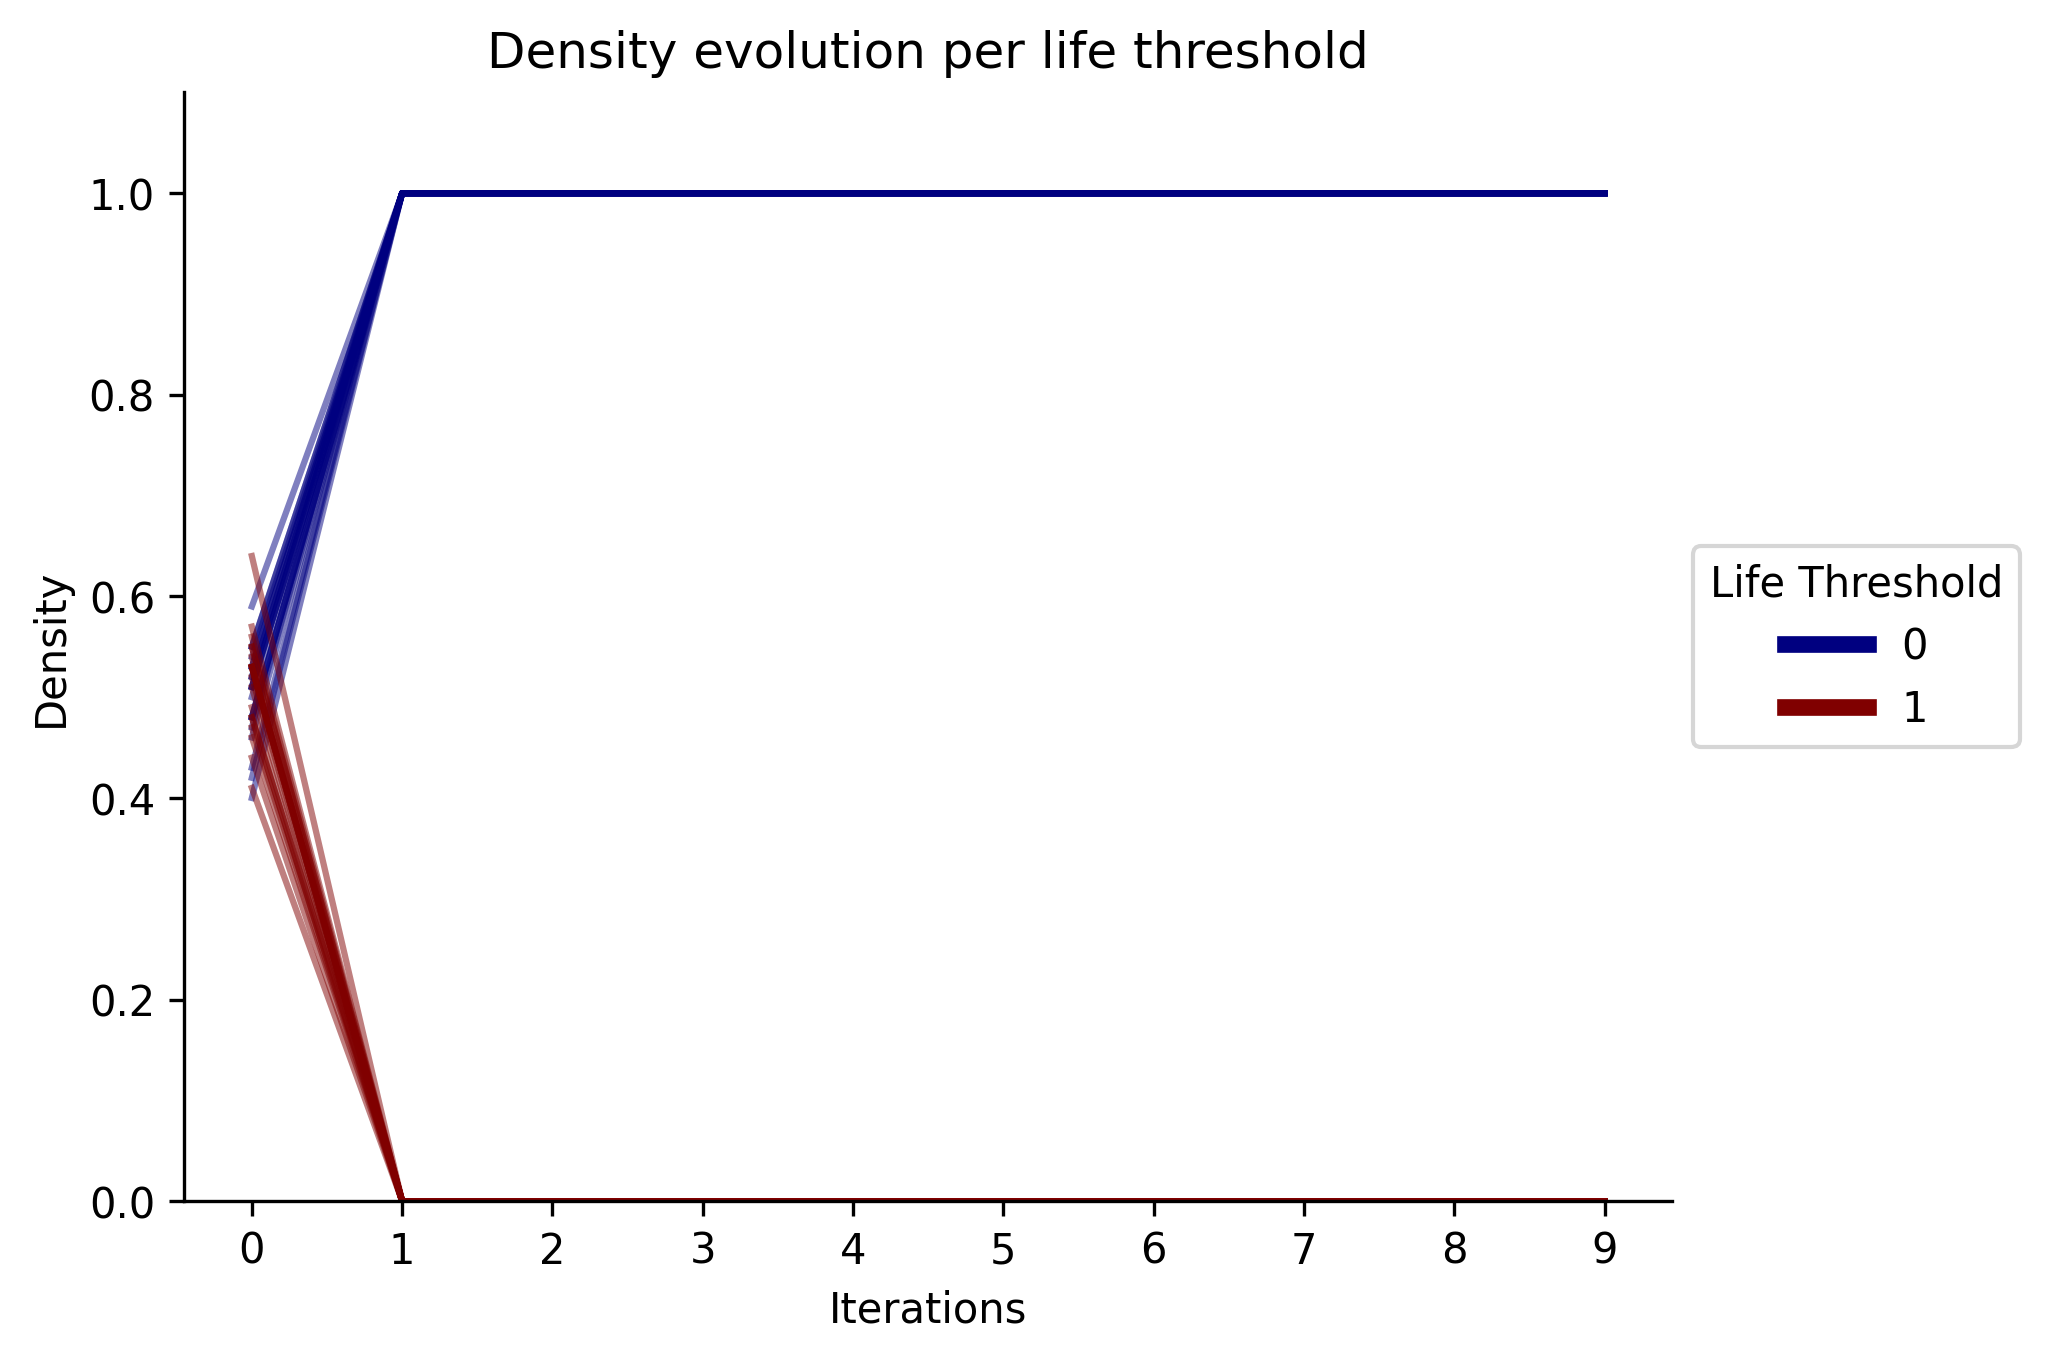
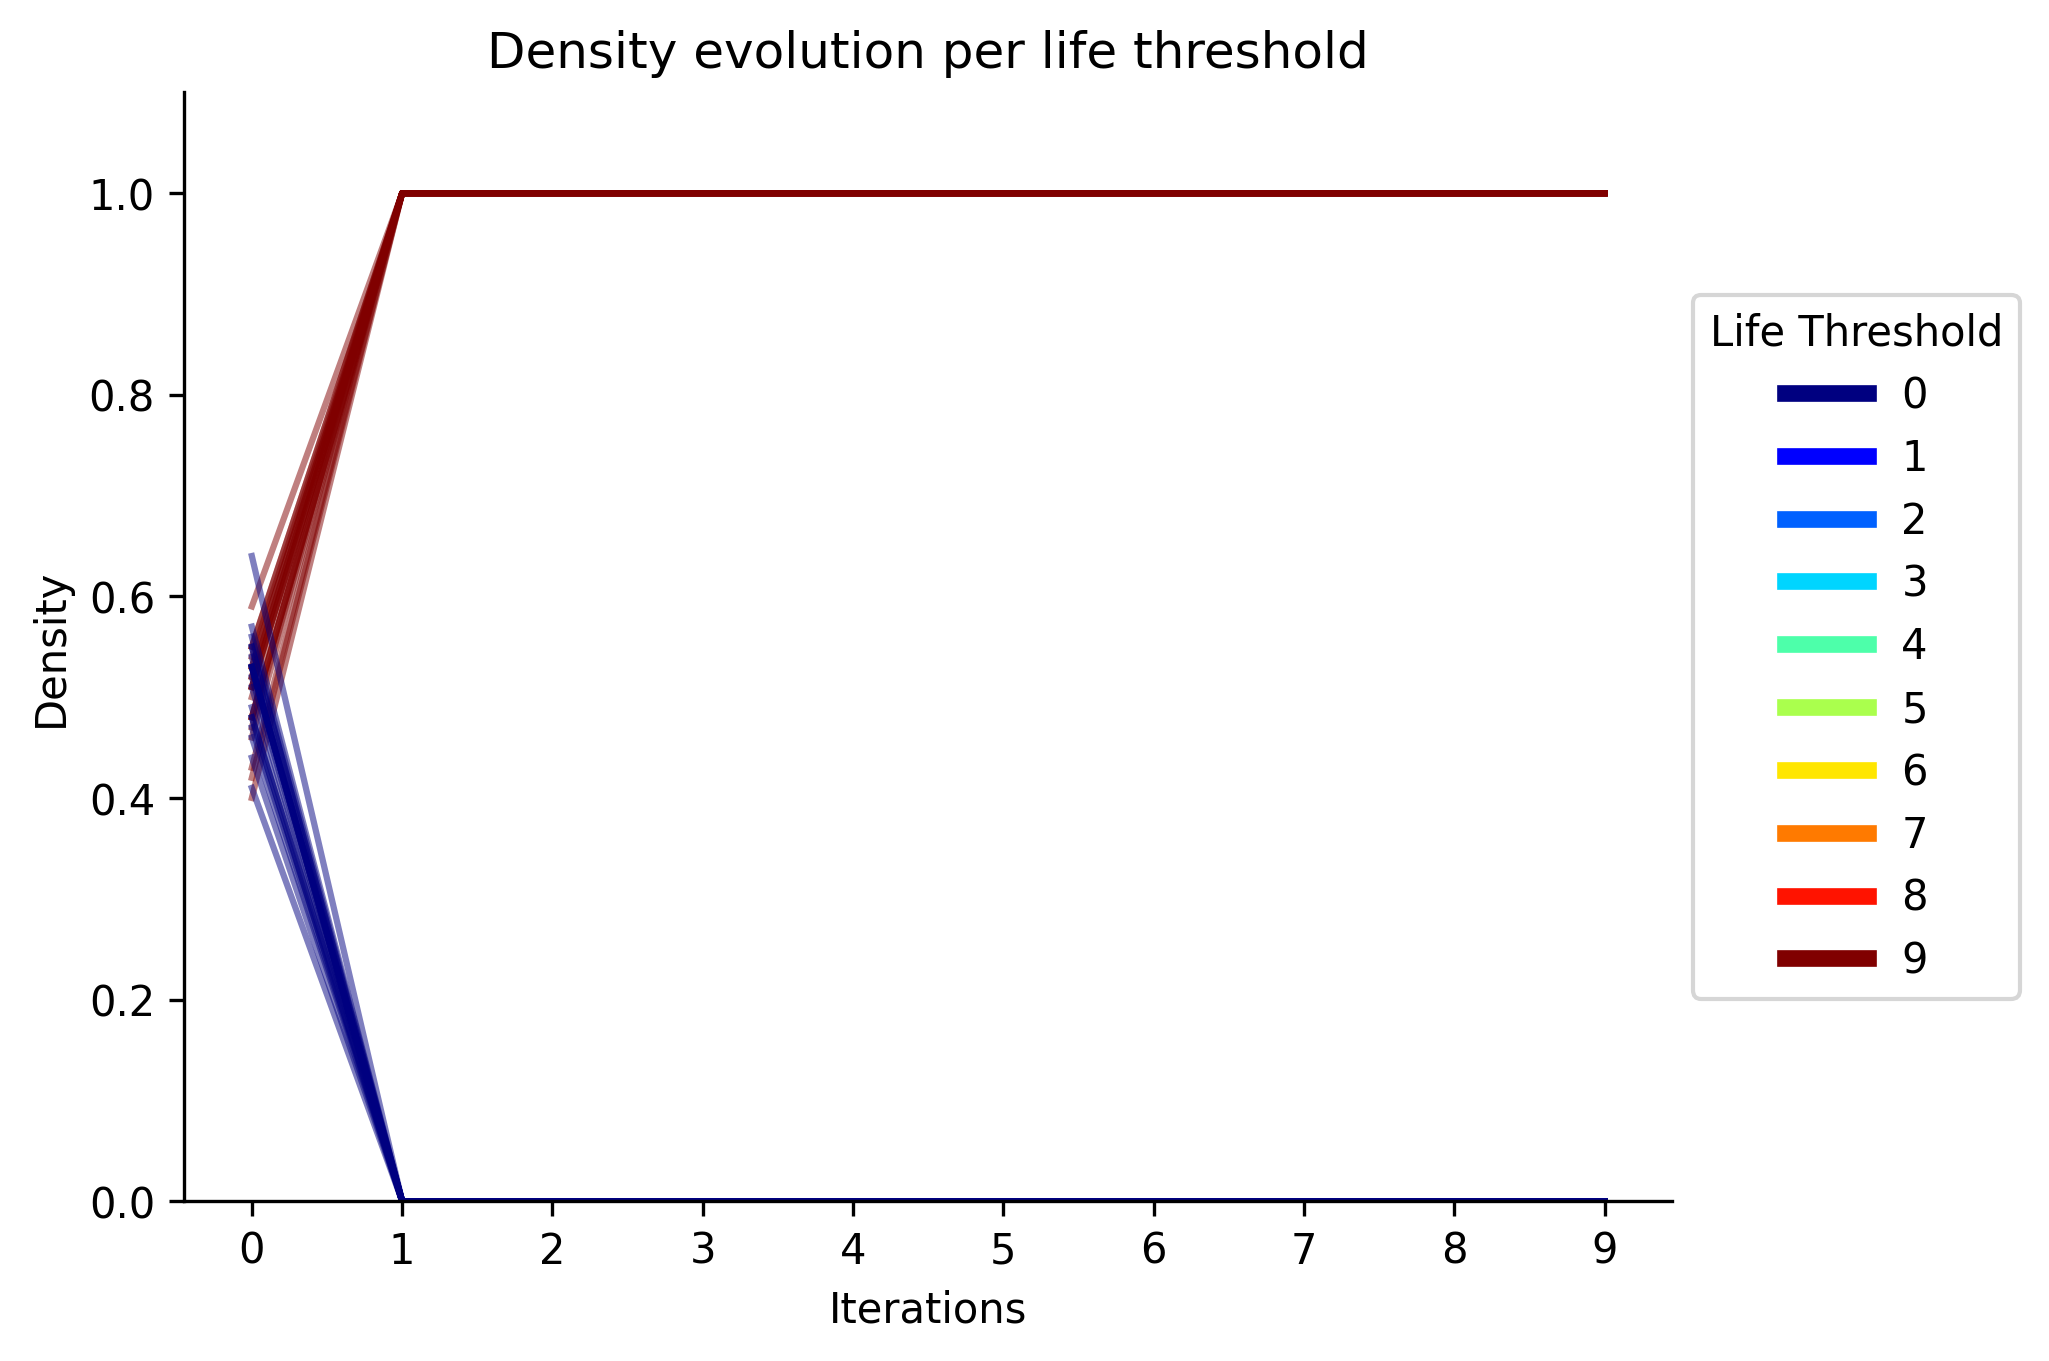
Make legends equal

diff --git a/src/statistics/densities.py b/src/statistics/densities.py
@@ -6,6 +6,7 @@ from matplotlib.ticker import MaxNLocator
 from matplotlib import cm
 import numpy as np
 from matplotlib.lines import Line2D
+from statistics.utils import *
 
 DENSITIES_FIGURES_FOLDER = f'{FIGURES_FOLDER}/statistics/densities'
 
@@ -139,12 +140,10 @@ def create_dataset_density_evolution_per_dt_plot(dataset, show=False, title="Den
 def plot_density_evolutions_per_dt(density_evolutions_by_dt, dts, title):
     ax = plt.subplot(111)
     
-    cmap = cm.get_cmap('jet')
-    colors = cmap(np.linspace(0, 1, len(dts)))
-    colors_by_dt = {dts[i]: colors[i] for i in range(len(dts))}
+    colors_by_threshold = get_colors_by_threshold()
     for dt in dts:
         density_evolutions = density_evolutions_by_dt[dt]
-        color = colors_by_dt[dt]
+        color = colors_by_threshold[dt]
         for densities in density_evolutions:
             plt.plot(densities, c=color, alpha=0.5)
     
@@ -156,7 +155,7 @@ def plot_density_evolutions_per_dt(density_evolutions_by_dt, dts, title):
     ax.xaxis.set_major_locator(MaxNLocator(integer=True))
     # legend
     custom_lines = [Line2D([0], [0], color=color, lw=4)
-                    for color in colors]
+                    for color in colors_by_threshold.values()]
     ax.legend(title="Life Threshold",fancybox=True,
               handles=custom_lines, 
               labels=range(0, 10),

diff --git a/src/statistics/utils.py b/src/statistics/utils.py
@@ -1,0 +1,12 @@
+import numpy as np
+from matplotlib import cm
+
+def get_colors_by_threshold():
+    
+    thresholds = range(0, 10)
+    
+    cmap = cm.get_cmap('jet')
+    colors = cmap(np.linspace(0, 1, len(thresholds)))
+    colors_by_threshold = {thresholds[i]: colors[i] for i in range(len(thresholds))}
+    
+    return colors_by_threshold
